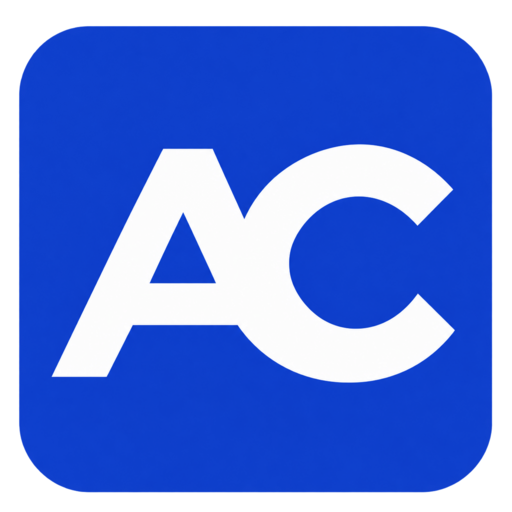
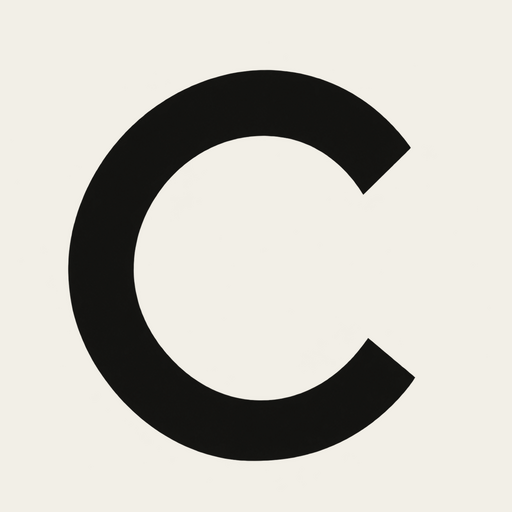
Replace AC tile with a minimal monochrome carboxx C

diff --git a/components/PortfolioHome.tsx b/components/PortfolioHome.tsx
@@ -9,7 +9,7 @@ const content = {
   it: {
     nav: { experience: 'Esperienza', projects: 'Progetti', journey: 'Percorso', contact: 'Parliamone' },
     navLabel: 'Navigazione principale',
-    backToTop: 'Antonio Carbone, torna all’inizio',
+    backToTop: 'carboxx, torna all’inizio',
     career: {
       eyebrow: 'Percorso professionale e formazione',
       title: <>Ingegneria prima.<br />AI nel mondo reale, oggi.</>,
@@ -73,7 +73,7 @@ const content = {
   en: {
     nav: { experience: 'Experience', projects: 'Projects', journey: 'Journey', contact: 'Let’s talk' },
     navLabel: 'Main navigation',
-    backToTop: 'Antonio Carbone, back to top',
+    backToTop: 'carboxx, back to top',
     career: {
       eyebrow: 'Professional experience and education',
       title: <>Engineering first.<br />AI in the real world, today.</>,
@@ -146,8 +146,7 @@ export default function PortfolioHome({ locale }: { locale: Locale }) {
 
       <header className="site-nav">
         <a className="nav-identity" href="#top" aria-label={copy.backToTop}>
-          <Image className="nav-logo" src="/brand/logo.png" width={40} height={40} alt="" />
-          <span>Antonio Carbone<small>AI Engineer</small></span>
+          <Image className="nav-logo" src="/brand/carboxx-c.png" width={40} height={40} alt="" />
         </a>
         <nav aria-label={copy.navLabel}>
           <a href="#esperienza">{copy.nav.experience}</a>

diff --git a/app/globals.css b/app/globals.css
@@ -1215,22 +1215,7 @@ main {
 .nav-identity {
   display: flex;
   align-items: center;
-  gap: 12px;
   justify-self: start;
-  color: var(--ink);
-  font-size: 13px;
-  font-weight: 800;
-  letter-spacing: -0.02em;
-  line-height: 1.25;
-}
-
-.nav-identity small {
-  display: block;
-  margin-top: 4px;
-  color: var(--muted);
-  font-size: 10px;
-  font-weight: 500;
-  letter-spacing: 0.03em;
 }
 
 .nav-logo {
@@ -1246,11 +1231,6 @@ main {
 }
 
 @media (max-width: 380px) {
-  .nav-identity {
-    gap: 8px;
-    font-size: 12px;
-  }
-
   .nav-logo {
     flex-basis: 34px;
     width: 34px;

diff --git a/app/manifest.ts b/app/manifest.ts
@@ -8,9 +8,9 @@ export default function manifest(): MetadataRoute.Manifest {
     start_url: '/',
     display: 'browser',
     background_color: '#f2efe7',
-    theme_color: '#1945d5',
+    theme_color: '#11110f',
     icons: [
-      { src: '/brand/icon-192.png', sizes: '192x192', type: 'image/png' },
+      { src: '/brand/carboxx-c-192.png', sizes: '192x192', type: 'image/png' },
       { src: '/icon.png', sizes: '512x512', type: 'image/png' },
     ],
   };
